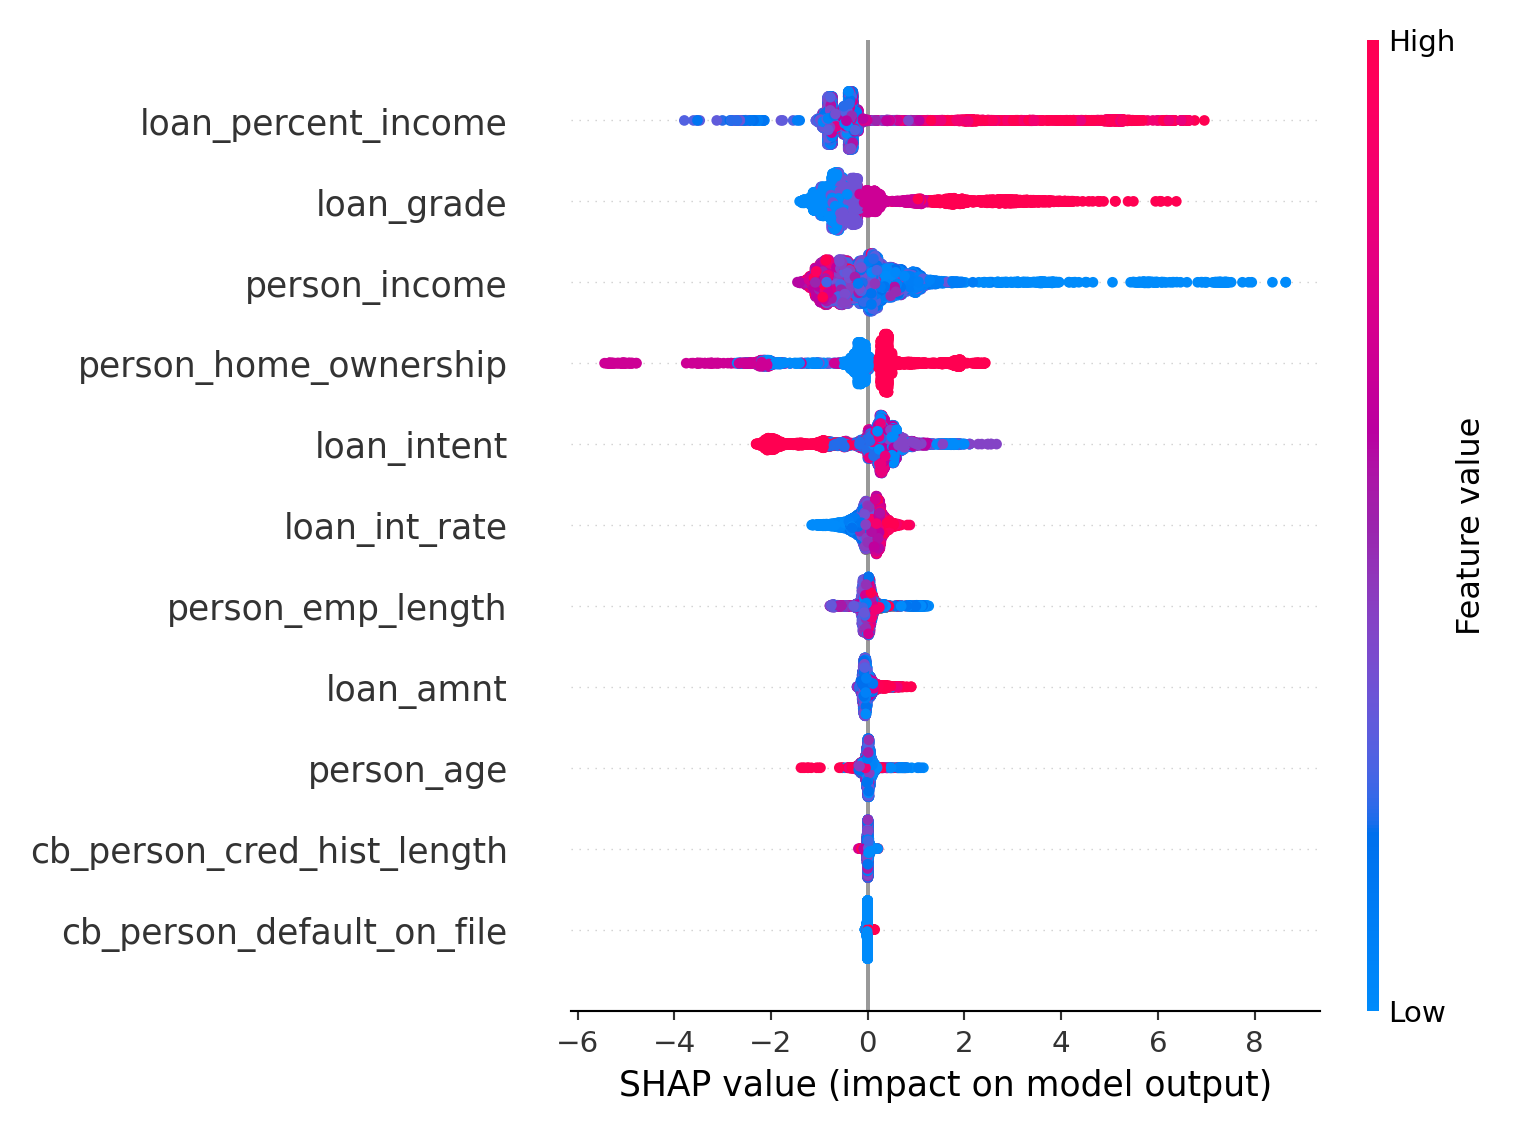
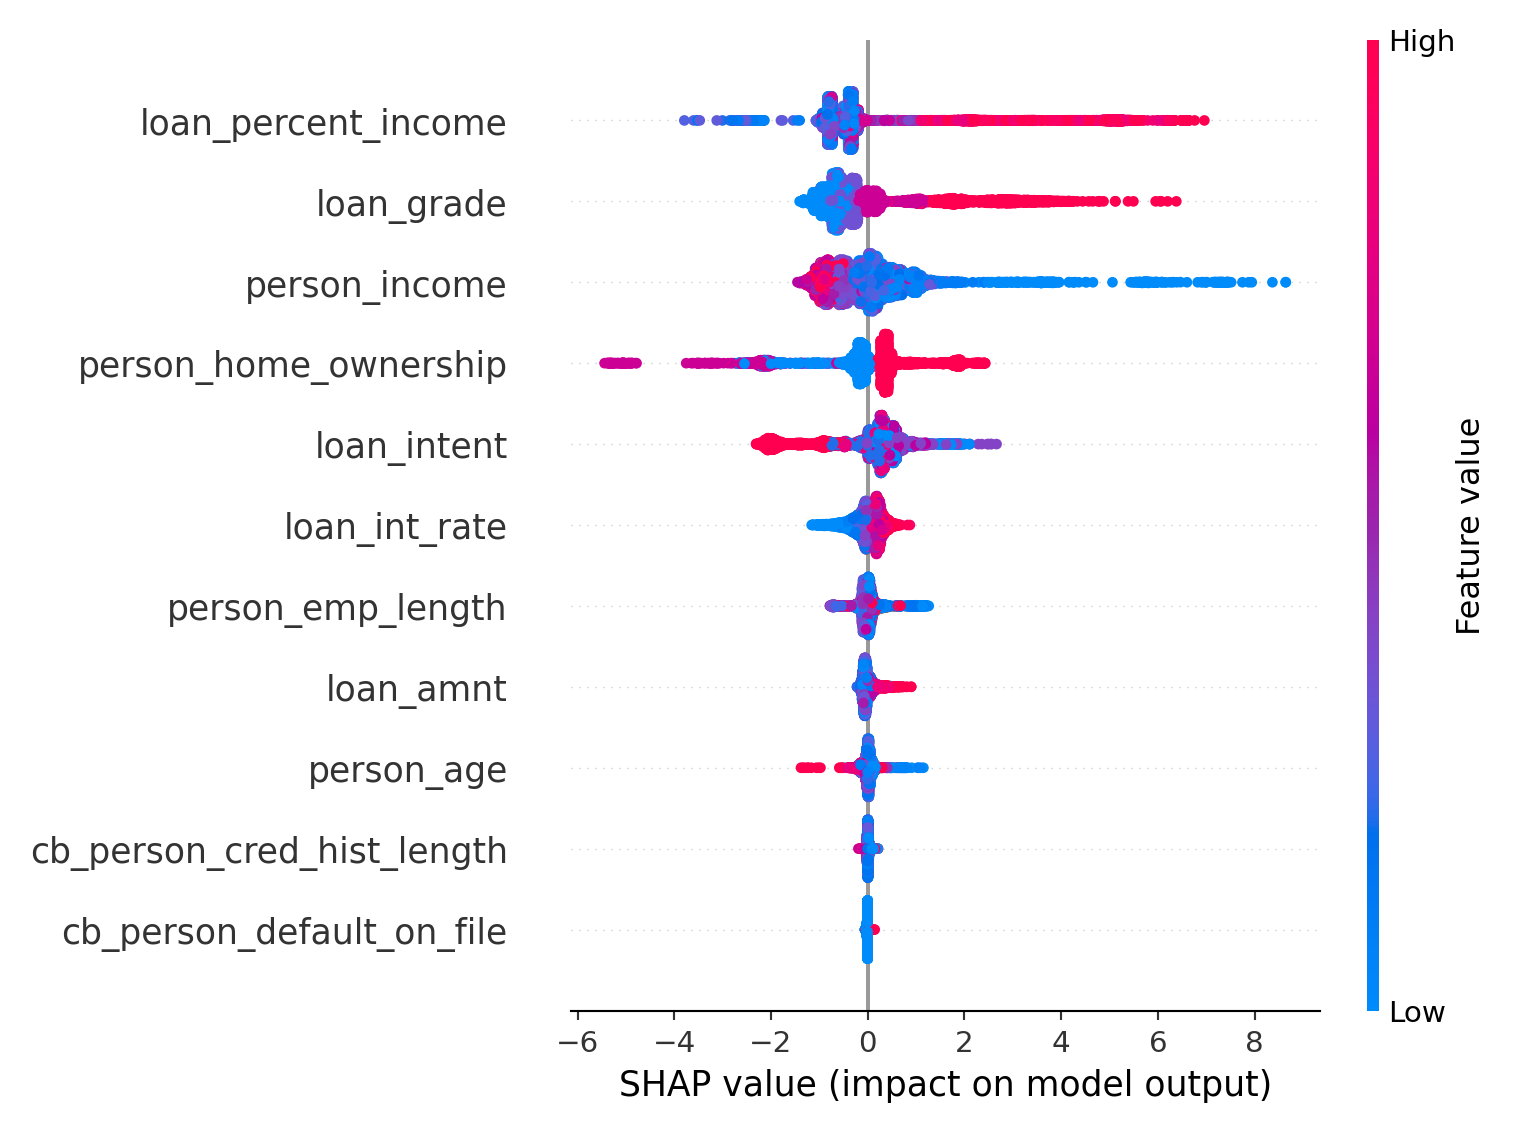
Built site for gh-pages

diff --git a/slides.html b/slides.html
@@ -1043,7 +1043,7 @@ Supervisor: Dr. Cohen
 </section>
 <section id="introduction" class="slide level2 smaller">
 <h2>1. Introduction</h2>
-<p>Occam’s Razor: The simplest solution is always the best</p>
+<p>Credit risk prediction plays an important role for financial companies to select potential defaulter customers and to take the appropriate lending decision. Conventional algorithms, such as logistic regression, are straightforward but unable to understand complicated trends within big data finance sets. ML models, including LightGBM, have better predictive precision but can be difficult to interpret due to their black-box nature. In this paper, LightGBM and SHAP explainability are combined to establish an efficient credit risk prediction system.</p>
 </section>
 <section id="methodology-logistic-regression" class="slide level2">
 <h2>2. Methodology: Logistic Regression</h2>